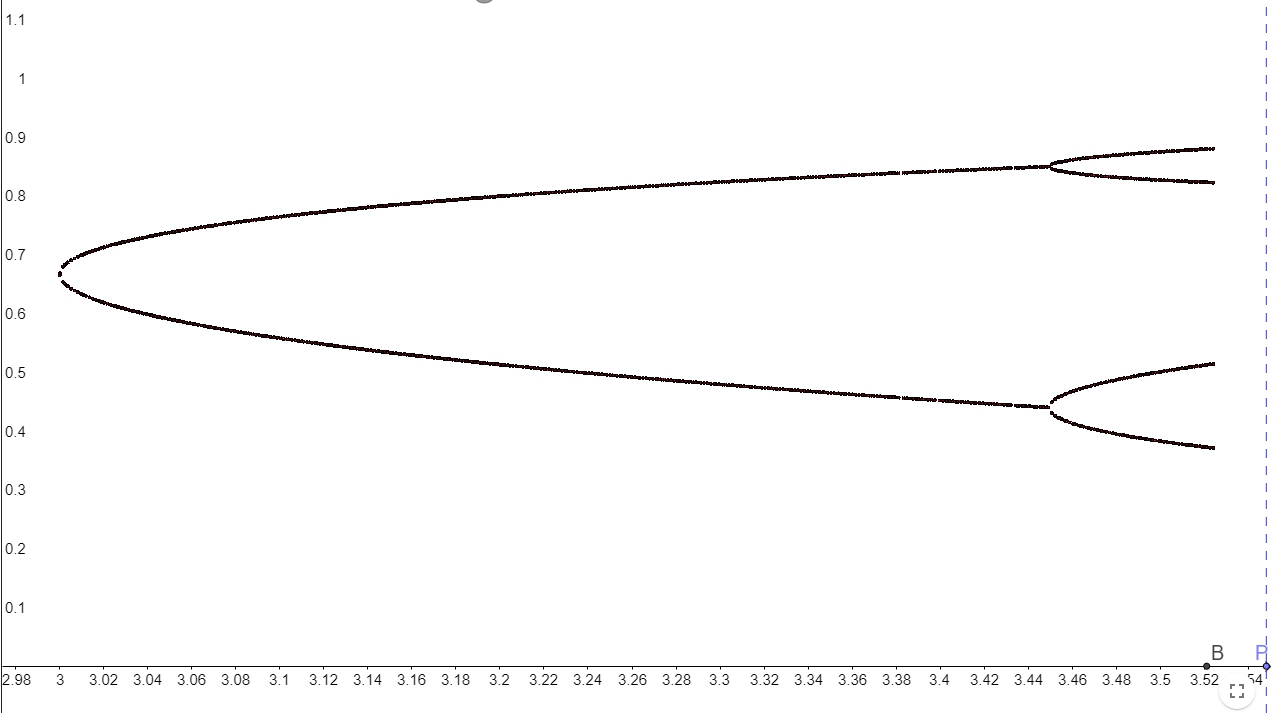
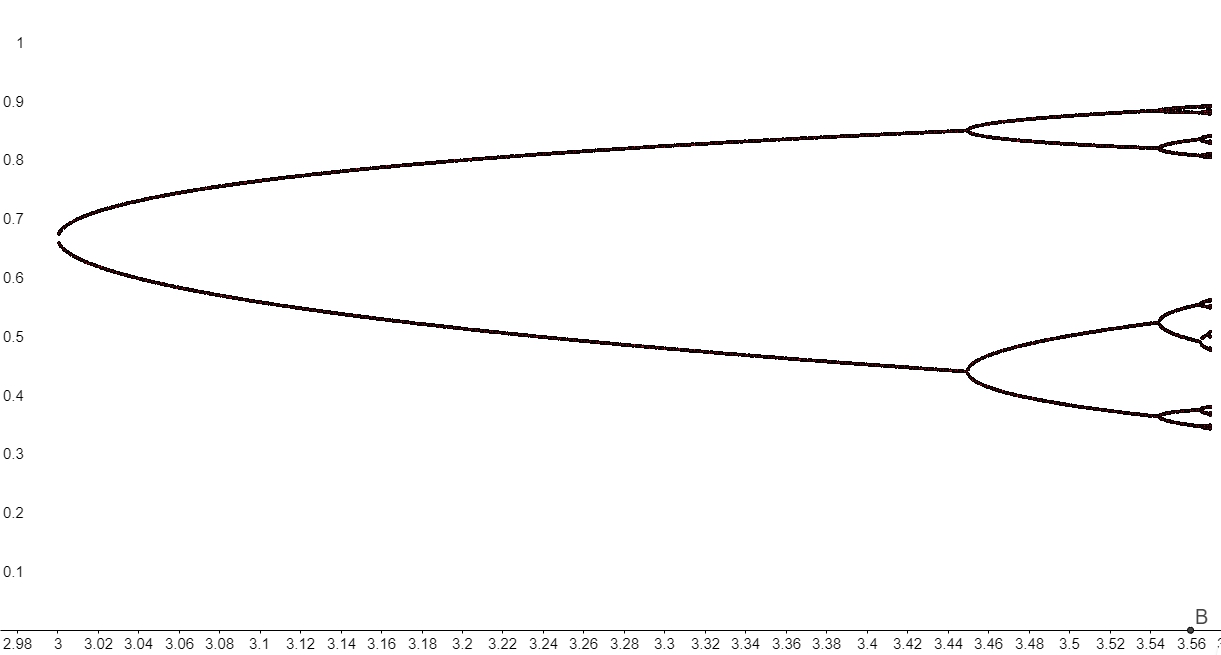
fix graph, minor improvements

diff --git a/hw1/hw1.md b/hw1/hw1.md
@@ -51,31 +51,39 @@ $x_{n + 1} = x_n - {f(x_n) \over f'(x_n)} = x_n - {P_n(x_n) \over P_n'(x_n)}, \ 
 
      $\phi'(x) = {1 \over 2} - x$
 
-     по теореме о сходимости метода простых итераций итерационная последовательность сходится к корню $x = 0$, так как на отрезке $x \in [0 - \delta, 0 + \delta]$ $\phi'(x)$ непрерывна и $|\phi'(x)| < 1$
+     По теореме о сходимости метода простых итераций итерационная последовательность сходится к корню $x = 0$, так как на отрезке $x \in [0 - \delta, 0 + \delta]$ проихводная $\phi'(x)$ непрерывна и $|\phi'(x)| < 1$
 
+     Путь итерационной последовательности: 
+     
      <img src="../assets/hw1-task2-stairs.jpg" alt="img" style="zoom:70%;" align="left" />
+     
+     График: i -> $x_i$
      
      <img src="../assets/hw1-task2-graph1.png" alt="img" style="zoom:70%;" align="left" />
      
      
 
-2. $1 < r < 3$
+2.    $1 < r < 3$
 
    - $1 < r < 2$
 
-     пусть $r = 1.5$
+     Пусть $r = 1.5$
 
      $\phi(x) = {3 \over 2} x (1 - x)$
 
      $\phi'(x) = {3 \over 2} - 3x$
 
-     при $x \in [{1 \over 3} - \delta, {1 \over 3} + \delta]$ $|\phi'(x)| < 1$ и непрерывно $\implies$ по теореме о сходимости метода простых итераций последовательность сходится к корню $x = {1 \over 3}$
+     При $x \in [{1 \over 3} - \delta, {1 \over 3} + \delta]$ производная непрерывна и $|\phi'(x)| < 1$ $\implies$ по теореме о сходимости метода простых итераций последовательность сходится к корню $x = {1 \over 3}$
 
+     Путь итерационной последовательности: 
+     
      <img src="../assets/hw1-task2-stairs-15.jpg" alt="img" style="zoom:70%;" align="left" />
      
+     График: i -> $x_i$
+  
      <img src="../assets/hw1-task2-graph2.png" alt="img" style="zoom:70%;" align="left" />
-     
-     график иллюстрирует монотонную сходимость
+  
+     График иллюстрирует монотонную сходимость.
   
    - $2 < r < 3$
 
@@ -85,35 +93,29 @@ $x_{n + 1} = x_n - {f(x_n) \over f'(x_n)} = x_n - {P_n(x_n) \over P_n'(x_n)}, \ 
 
      $\phi'(x) = {5 \over 2} - {5 \over x}$
 
-     аналогично итерационная последовательность сходится к корню $x = {3 \over 5}$
-
-     так как при $x \in [{3 \over 5} - \delta, {3 \over 5} + \delta]$
-
-     $|\phi'(x)| < 1$ и непрерывна
+     Аналогично итерационная последовательность сходится к корню $x = {3 \over 5}$ , т. к. при $x \in [{3 \over 5} - \delta, {3 \over 5} + \delta]$ производная непрерывна и ее модуль $|\phi'(x)| < 1$ меньше единицы (т.е. выполняется условие Липшица).
+   
+     Путь итерационной последовательности: 
    
      <img src="../assets/hw1-task2-snail.jpg" alt="img" style="zoom:70%;" align="left" />
+   
+     График: i -> $x_i$
      
      <img src="../assets/hw1-task2-graph3.png" alt="img" style="zoom:70%;" align="left" />
      
-     график иллюстрирует колебательную сходимость
+     В данном случае мы уже имеем колебательную сходимость.
+
+3. При r $\in$ (3; $r_{\infty}$) мы уже не можем применить теорему о сходимости, т.к. не выполняется условие Липшица $\implies$ итерационная последовательность не сходится к одному корню. Она распадается на 2, 4, 8... подпоследовательностей, каждая из которых имеет свой предел. Это можно проследить на графике:
+
+   <img src="../assets/hw1-task2-graph.png" alt="img" style="zoom:70%;" align="left" />
+
+4. Покажем, что в диапозоне $r_\infty < r < 4$ поведение итерационной последовательности становится похожим на случайное (детерминированный хаос):
+
+   <img src="../assets/hw1-task2-second.png" alt="img" style="zoom:70%;" align="left" />
 
 
 
----
-
-Рассмотрим каскад бифуркаций удвоения периода в диапозоне $3 < r < r_1$, где $r_1 = 3.5699456 - {1 \over 4.66920116}$. Итерационная последовательность распадается на подпоследовательности, каждая из которых имеет свой предел. Таких промежутков бесконечно много, но они аналогичны, рассмотрим один из них: 
-
-<img src="../assets/hw1-task2-graph.png" alt="img" style="zoom:70%;" align="left" />
-
-
-
-Покажем, что в диапозоне $r_\infty < r < 4$ поведение итерационной последовательности становится похожим на детерминированный хаос:
-
-<img src="../assets/hw1-task2-second.png" alt="img" style="zoom:70%;" align="left" />
-
-
-
-Также заметим, что если рассмотреть один из подпромежутков, то при некоторых значениях $r$ имеются области сгущения и разрежения итерационной последовательсти. Этот график рассматривает часть предыдущего графика для наглядности
+Также заметим, что если рассмотреть один из подпромежутков, то при некоторых значениях $r$ 	имеются области сгущения и разрежения итерационной последовательсти. Этот график рассматривает часть предыдущего графика для наглядности
 
 <img src="../assets/hw1-task2-third.png" alt="img" style="zoom:70%;" align="left" />
 
@@ -125,10 +127,12 @@ $x_{n + 1} = x_n - {f(x_n) \over f'(x_n)} = x_n - {P_n(x_n) \over P_n'(x_n)}, \ 
 
 
 
-## Задание 3
+## Задание 3 
+
+## TO FUCKING DO: MAKE SMART WORDS HERE IN THIS TASK
 
 ![img](../assets/hw1-task3-equation.png)
 
-для случайных начальных значений:
+Для случайных начальных значений:
 
 ![img](../assets/hw1-task3-random.png)
